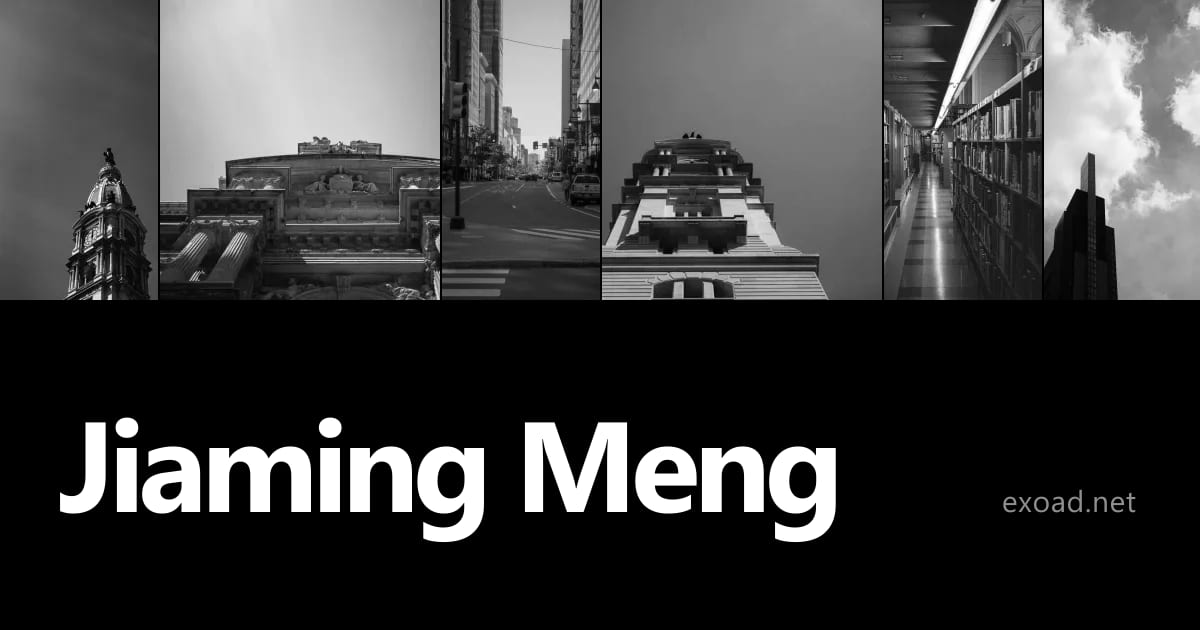
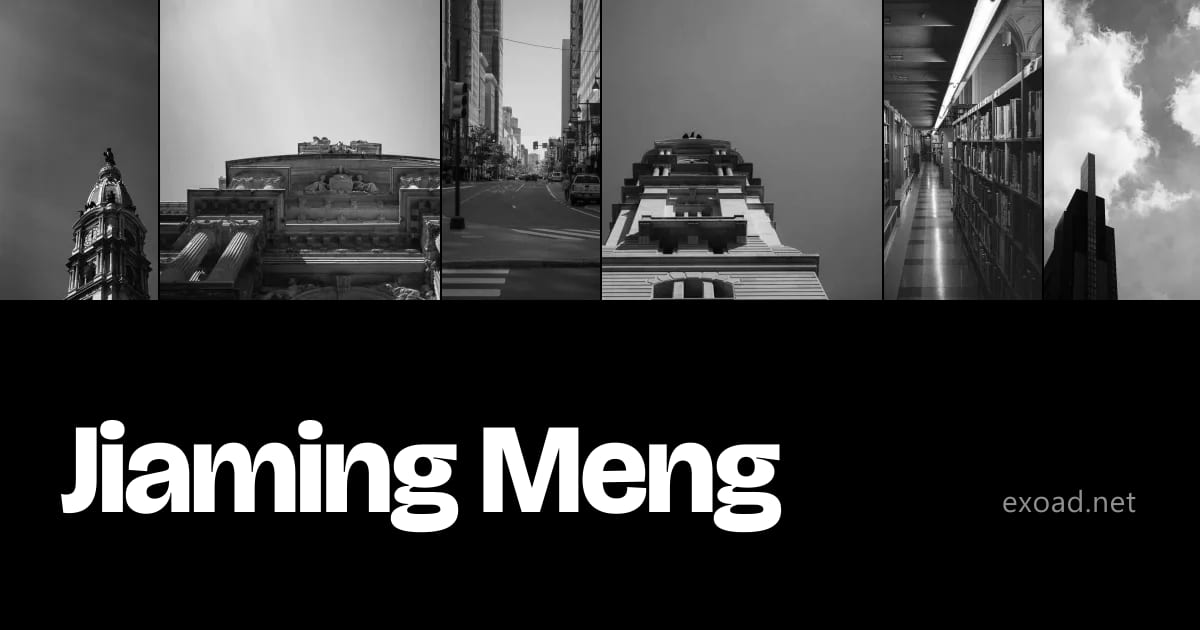
Serve photos from photos.exoad.net, stop running a Function on page views, give the name its own face
Photos: the gallery, the home band's build-time sources, the jackbox photos,
the agent files and the link-card script now point at photos.exoad.net, an R2
bucket (exoad-photos) instead of jsDelivr over a GitHub repo. deploy-photos
uploads only the variants the bucket does not already hold.

Functions: only /mcp is routed to them now. Markdown negotiation for /,
/photos and /photos/<id> moves to a zone URL rewrite rule, and Vary: Accept to
a response header rule, so an ordinary page view is a free static request and
stops counting against the Workers quota. The middleware is gone; .md twins
carry X-Robots-Tag: noindex from _headers instead.

Type: the name is set in Bricolage Grotesque 800, subset to its own letters
(about 1.8 KB, inlined into the page, so no extra request). The link card sets
it too, as outlines via opentype.js so it renders the same on any machine.

Changed region(s): [[0.0308, 0.6635, 0.7092, 0.8746]]

diff --git a/src/data/gallery.ts b/src/data/gallery.ts
@@ -1,11 +1,10 @@
 import manifest from "./gallery.json";
 import { picks } from "./picks";
 
-// Web variants only — the bucket repo is public, so full-res originals are
-// never uploaded to it; they stay on the local machine.
-// jsDelivr serves the bucket straight off its CDN with a week of browser cache.
-// (statically.io, used before, now answers every request with a 301 to GitHub.)
-export const CDN_BASE = "https://cdn.jsdelivr.net/gh/meng-jack/me-pictures-bucket@main/gallery";
+// Web variants only; full-res originals stay on the local machine. Served from
+// the exoad-photos R2 bucket on photos.exoad.net, cached at the edge and in the
+// browser for a year (a photo's id never changes what it points at).
+export const CDN_BASE = "https://photos.exoad.net/gallery";
 
 export interface GalleryPhoto {
     id: string;

diff --git a/src/data/shared.ts b/src/data/shared.ts
@@ -157,7 +157,7 @@ export const alsoProjects: { title: string; link: string }[] = [
  * the photo bucket: the page shows small copies resized at build time, and each
  * links to the full original.
  */
-const JACKBOX_BASE = "https://cdn.jsdelivr.net/gh/meng-jack/me-pictures-bucket@main/blog/server-build";
+const JACKBOX_BASE = "https://photos.exoad.net/blog/server-build";
 export const jackboxPhotos = [
     { src: `${JACKBOX_BASE}/img3.jpeg`, width: 1843, height: 2457, alt: "jackbox from the front" },
     { src: `${JACKBOX_BASE}/img1.jpg`, width: 3072, height: 4096, alt: "both gpus laid out before assembly" },
